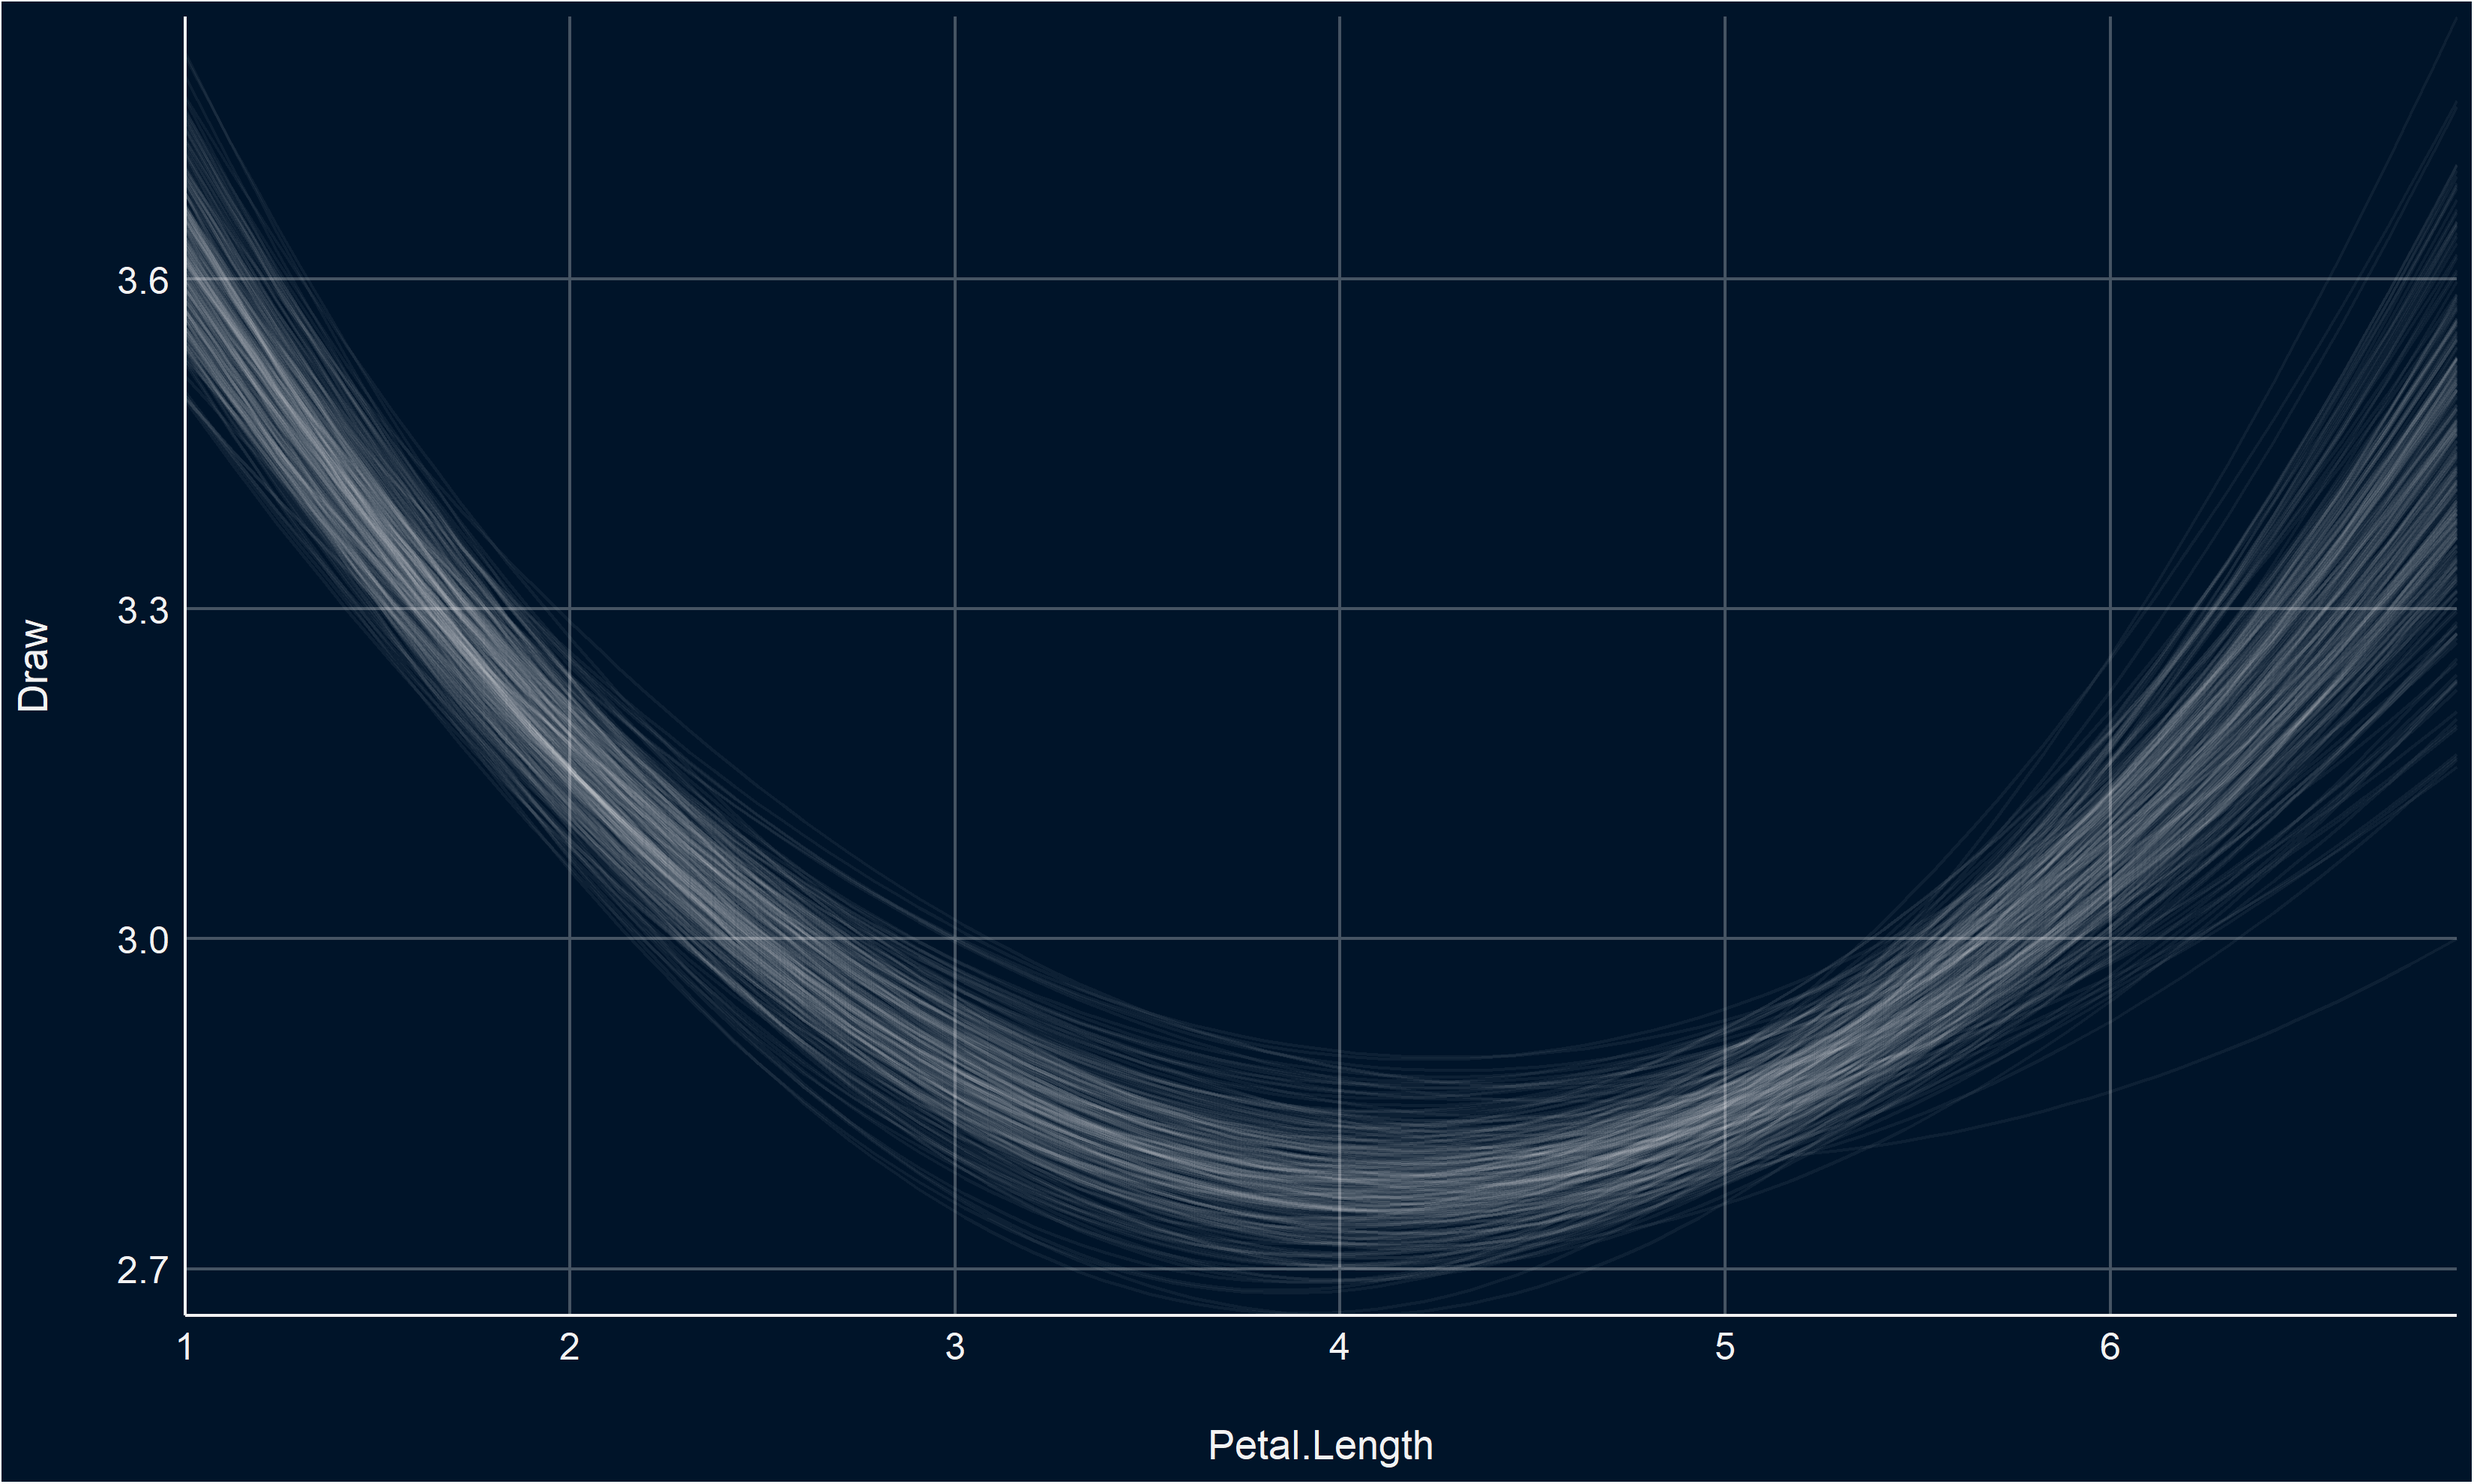
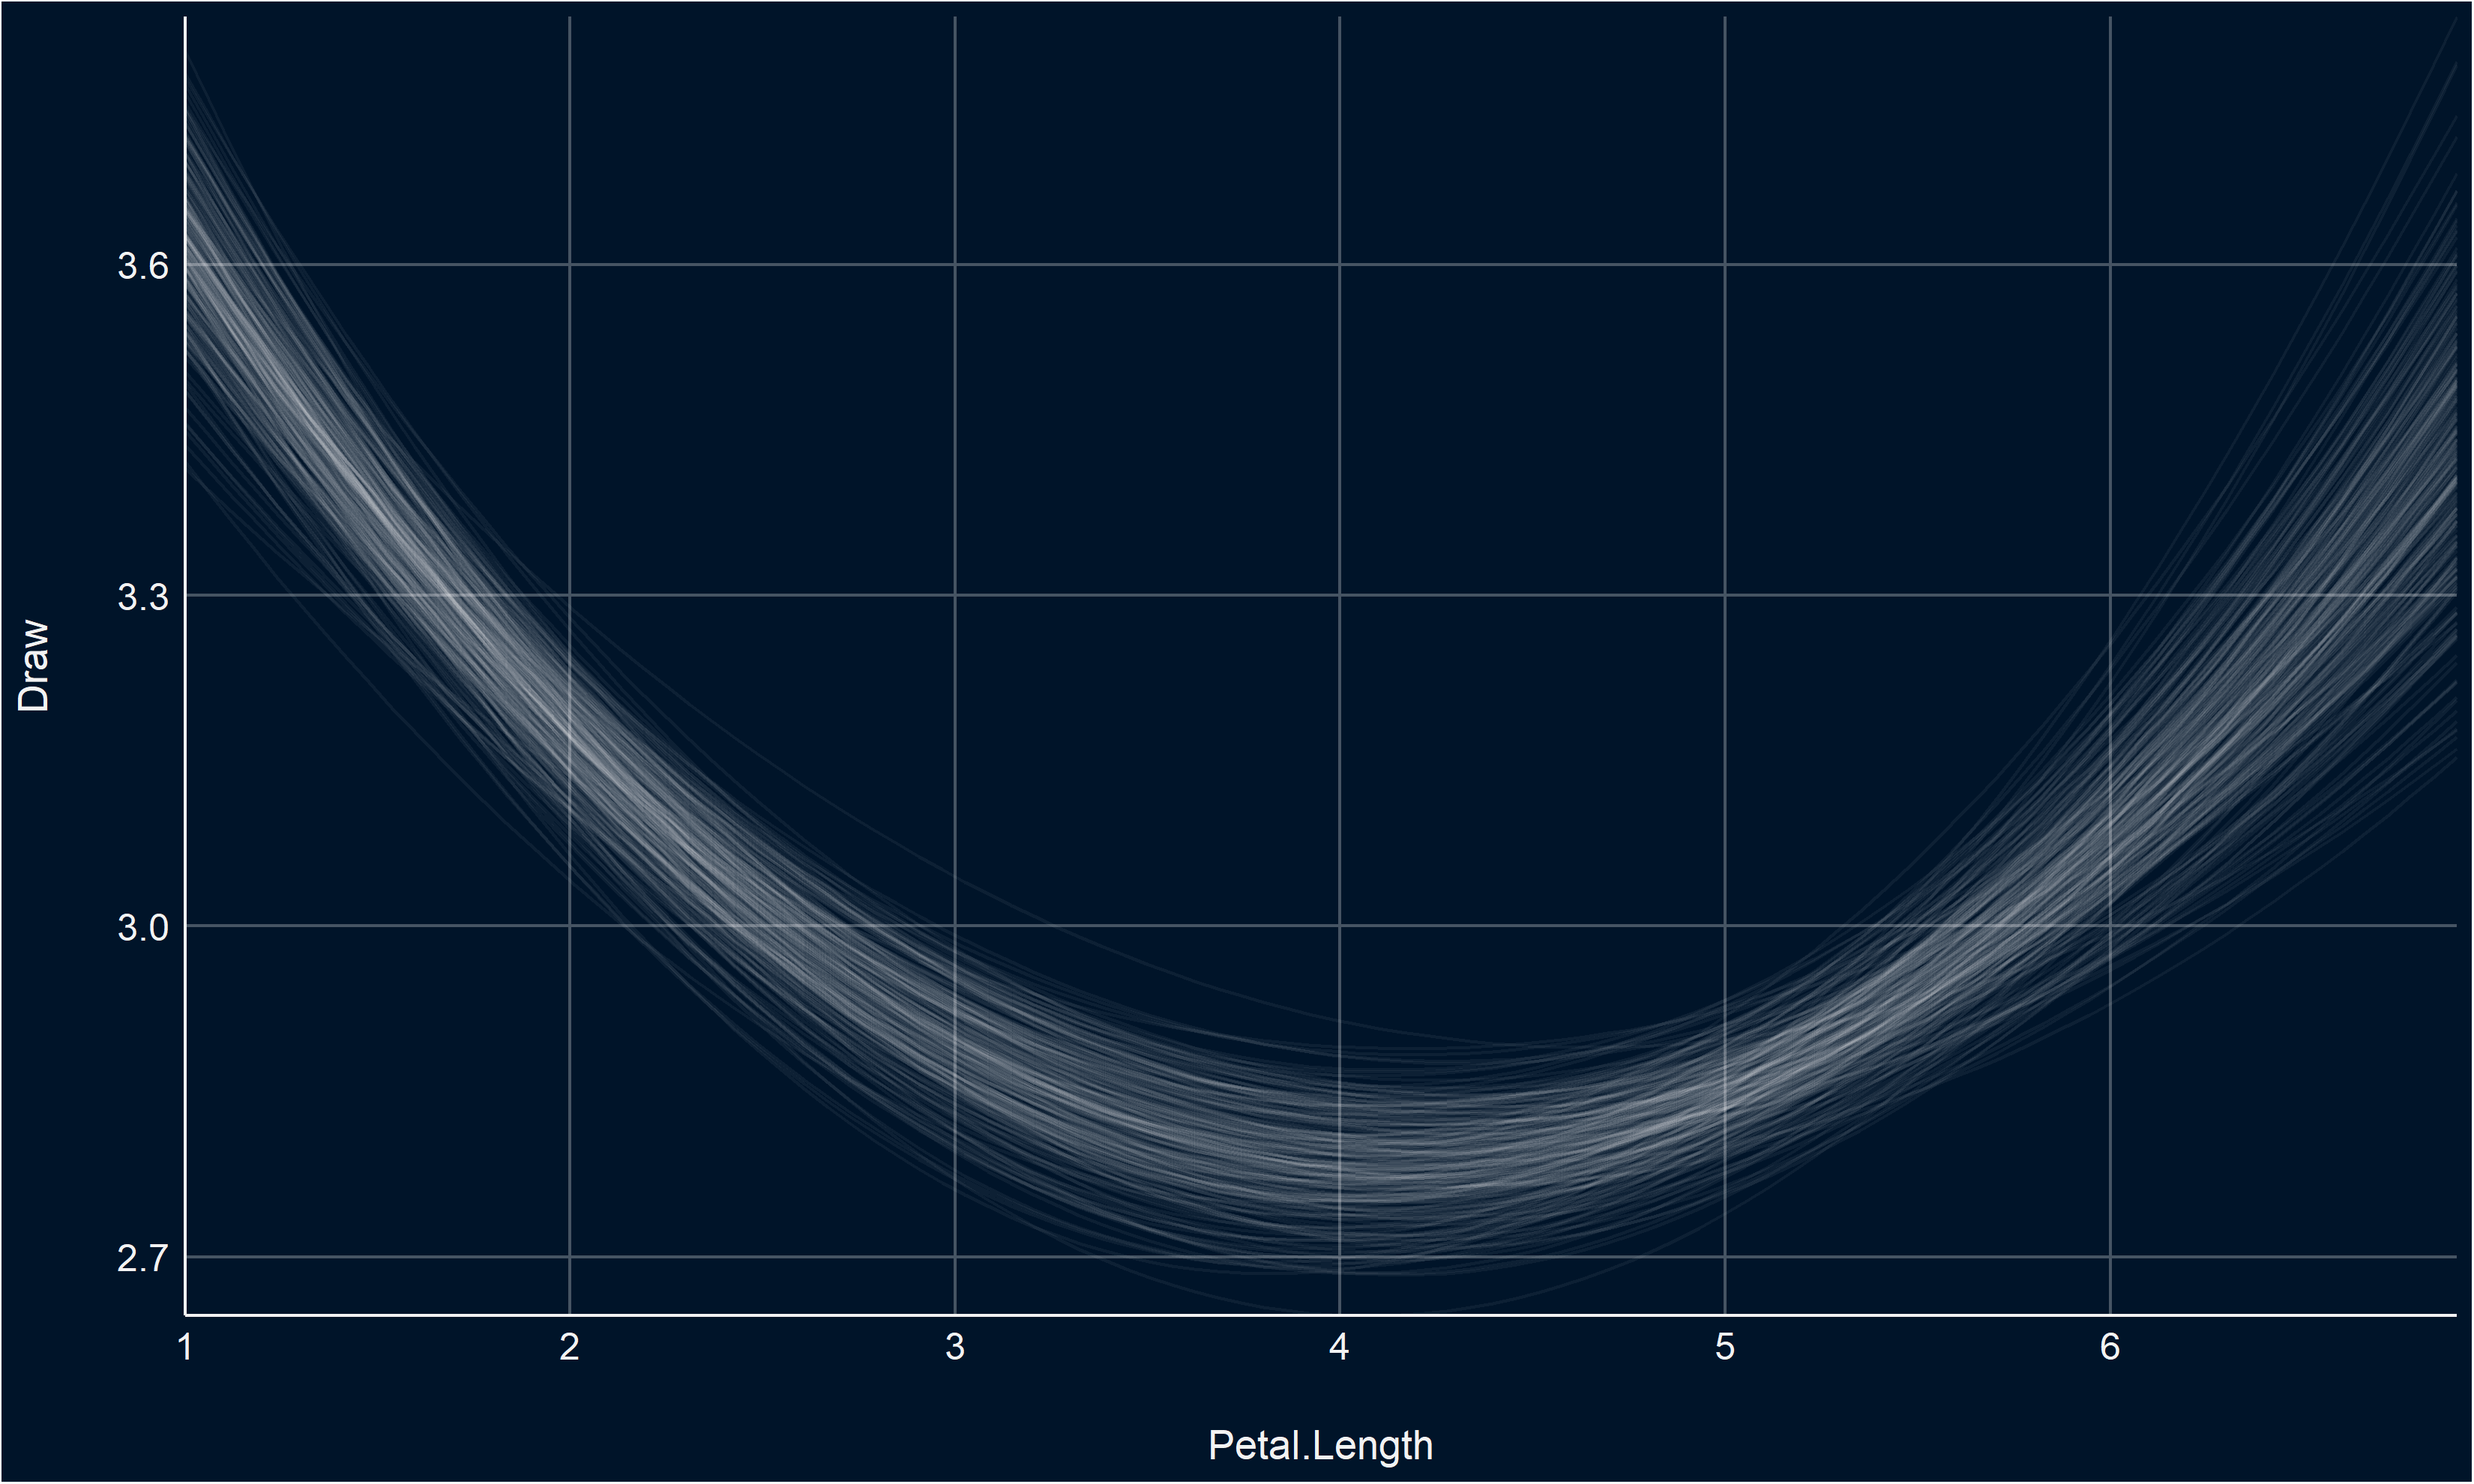
update readme

Changed region(s): [[0.0312, 0.0924, 0.9988, 0.8626]]

diff --git a/README.md b/README.md
@@ -29,8 +29,9 @@ library("see")
 ``` r
 library(ggplot2)
 
-ggplot(iris, aes(x = Sepal.Width, y = Sepal.Length, color = Species)) + 
-    geom_point2() + theme_modern()
+ggplot(iris, aes(x = Sepal.Width, y = Sepal.Length, color = Species)) +
+  geom_point2() +
+  theme_modern()
 ```
 
 ![](man/figures/unnamed-chunk-4-1.png)<!-- -->
@@ -40,8 +41,9 @@ ggplot(iris, aes(x = Sepal.Width, y = Sepal.Length, color = Species)) +
 ``` r
 library(ggplot2)
 
-ggplot(iris, aes(x = Sepal.Width, y = Sepal.Length, color = Species)) + 
-    geom_point2() + theme_lucid()
+ggplot(iris, aes(x = Sepal.Width, y = Sepal.Length, color = Species)) +
+  geom_point2() +
+  theme_lucid()
 ```
 
 ![](man/figures/unnamed-chunk-5-1.png)<!-- -->
@@ -52,15 +54,16 @@ ggplot(iris, aes(x = Sepal.Width, y = Sepal.Length, color = Species)) +
 library(rstanarm)
 library(modelbased)
 
-dat <- rstanarm::stan_glm(Sepal.Width ~ poly(Petal.Length, 2), 
-    data = iris) %>% estimate::estimate_link(keep_draws = TRUE, 
-    length = 100, draws = 250) %>% estimate::reshape_draws()
+dat <- rstanarm::stan_glm(Sepal.Width ~ poly(Petal.Length, 2), data = iris) %>%
+  modelbased::estimate_link(keep_draws = TRUE, length = 100, draws = 250) %>%
+  modelbased::reshape_draws()
 
-p <- ggplot(dat, aes(x = Petal.Length, y = Draw, group = Draw_Group)) + 
-    geom_line(color = "white", alpha = 0.05) + scale_x_continuous(expand = c(0, 
-    0)) + scale_y_continuous(expand = c(0, 0))
+p <- ggplot(dat, aes(x = Petal.Length, y = Draw, group = Draw_Group)) +
+  geom_line(color = "white", alpha = 0.05) +
+  scale_x_continuous(expand = c(0, 0)) +
+  scale_y_continuous(expand = c(0, 0))
 
-p + theme_blackboard()
+p + theme_blackboard() 
 ```
 
 ![](man/figures/unnamed-chunk-7-1.png)<!-- -->
@@ -78,14 +81,20 @@ for a detailed overview of palettes and color scales.
 ### Material design
 
 ``` r
-p1 <- ggplot(iris, aes(x = Species, y = Sepal.Length, fill = Species)) + 
-    geom_boxplot() + theme_modern(axis.text.angle = 45) + scale_fill_material_d()
+p1 <- ggplot(iris, aes(x = Species, y = Sepal.Length, fill = Species)) +
+  geom_boxplot() +
+  theme_modern(axis.text.angle = 45) +
+  scale_fill_material_d()
 
-p2 <- ggplot(iris, aes(x = Species, y = Sepal.Length, fill = Species)) + 
-    geom_violin() + theme_modern(axis.text.angle = 45) + scale_fill_material_d(palette = "ice")
+p2 <- ggplot(iris, aes(x = Species, y = Sepal.Length, fill = Species)) +
+  geom_violin() +
+  theme_modern(axis.text.angle = 45) +
+  scale_fill_material_d(palette = "ice")
 
-p3 <- ggplot(iris, aes(x = Petal.Length, y = Petal.Width, color = Sepal.Length)) + 
-    geom_point2() + theme_modern() + scale_color_material_c(palette = "rainbow")
+p3 <- ggplot(iris, aes(x = Petal.Length, y = Petal.Width, color = Sepal.Length)) +
+  geom_point2() +
+  theme_modern() +
+  scale_color_material_c(palette = "rainbow")
 ```
 
 ## Multiple plots
@@ -102,7 +111,8 @@ The `plots()` function can also be used to add **tags** (*i.e.*, labels
 for subfigures).
 
 ``` r
-plots(p1, p2, p3, n_columns = 2, tags = paste("Fig. ", 1:3))
+plots(p1, p2, p3, n_columns = 2, 
+      tags = paste("Fig. ", 1:3))
 ```
 
 ![](man/figures/unnamed-chunk-11-1.png)<!-- -->
@@ -113,11 +123,13 @@ plots(p1, p2, p3, n_columns = 2, tags = paste("Fig. ", 1:3))
 contour.
 
 ``` r
-normal <- ggplot(iris, aes(x = Petal.Width, y = Sepal.Length)) + 
-    geom_point(size = 8, alpha = 0.3) + theme_modern()
+normal <- ggplot(iris, aes(x = Petal.Width, y = Sepal.Length)) +
+  geom_point(size = 8, alpha = 0.3) +
+  theme_modern()
 
-new <- ggplot(iris, aes(x = Petal.Width, y = Sepal.Length)) + 
-    geom_point2(size = 8, alpha = 0.3) + theme_modern()
+new <- ggplot(iris, aes(x = Petal.Width, y = Sepal.Length)) +
+  geom_point2(size = 8, alpha = 0.3) +
+  theme_modern()
 
 plots(normal, new, n_columns = 2)
 ```
@@ -130,8 +142,10 @@ Create a half-violin half-dot plot, useful for visualising the
 distribution and the sample size at the same time.
 
 ``` r
-ggplot(iris, aes(x = Species, y = Sepal.Length, fill = Species)) + 
-    geom_violindot(fill_dots = "black") + theme_modern() + scale_fill_material_d()
+ggplot(iris, aes(x = Species, y = Sepal.Length, fill = Species)) +
+  geom_violindot(fill_dots = "black") +
+  theme_modern() +
+  scale_fill_material_d()
 ```
 
 ![](man/figures/unnamed-chunk-13-1.png)<!-- -->
@@ -142,12 +156,16 @@ ggplot(iris, aes(x = Species, y = Sepal.Length, fill = Species)) +
 library(dplyr)
 library(tidyr)
 
-data <- iris %>% group_by(Species) %>% summarise_all(mean) %>% 
-    pivot_longer(-Species)
+data <- iris %>%
+  group_by(Species) %>%
+  summarise_all(mean) %>%
+  pivot_longer(-Species)
 
-data %>% ggplot(aes(x = name, y = value, color = Species, group = Species)) + 
-    geom_polygon(fill = NA, size = 2, show.legend = FALSE) + 
-    coord_radar(start = -pi/4) + theme_minimal()
+data %>%
+  ggplot(aes(x = name, y = value, color = Species, group = Species)) +
+  geom_polygon(fill = NA, size = 2, show.legend = FALSE) +
+  coord_radar(start = -pi/4) +
+  theme_minimal()
 ```
 
 ![](man/figures/unnamed-chunk-14-1.png)<!-- -->
